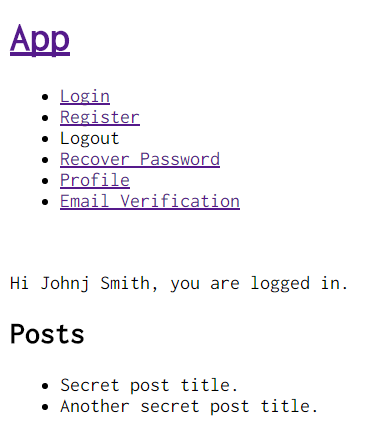
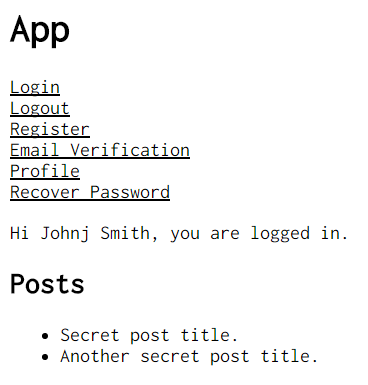
update screenshot and layout

diff --git a/client/Layout.js b/client/Layout.js
@@ -24,13 +24,13 @@ class Layout extends React.Component {
       return (
         <div>
           <h1><Link to={'/'}>App</Link></h1>
-          <ul>
+          <ul className="navigation">
             <li><Link to={`/login`}>Login</Link></li>
-            <li><Link to={`/register`}>Register</Link></li>
             <li><Link onClick={this.logout.bind(this)}>Logout</Link></li>
-            <li><Link to={`/recover-password`}>Recover Password</Link></li>
-            <li><Link to={`/profile`}>Profile</Link></li>
+            <li><Link to={`/register`}>Register</Link></li>
             <li><Link to={`/email-verification`}>Email Verification</Link></li>
+            <li><Link to={`/profile`}>Profile</Link></li>
+            <li><Link to={`/recover-password`}>Recover Password</Link></li>
           </ul>
           {this.props.children}
         </div>

diff --git a/client/main.css b/client/main.css
@@ -1,1 +1,18 @@
 @import url('https://fonts.googleapis.com/css?family=Inconsolata');
+
+.navigation a {
+  display: block;
+  color: #000;
+  text-decoration: underline;
+}
+
+h1 a {
+  color: #000;
+  text-decoration: none;
+}
+
+.navigation {
+  list-style-type: none;
+  margin-bottom:: 1em;
+  padding: 0;
+}
